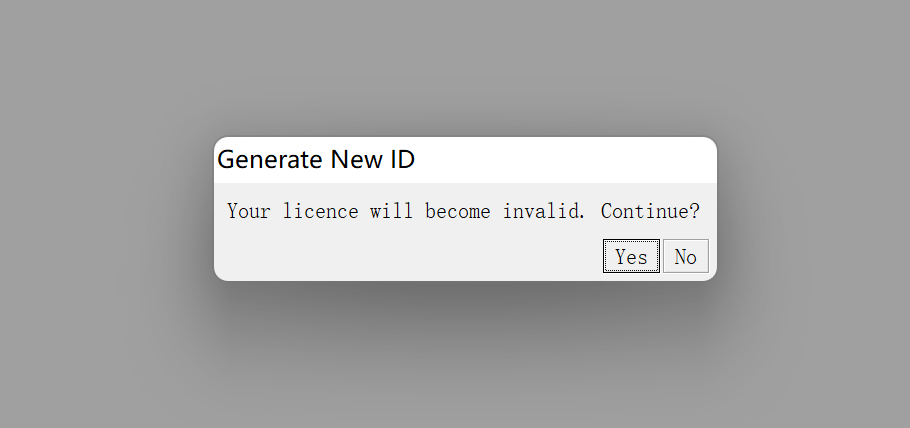
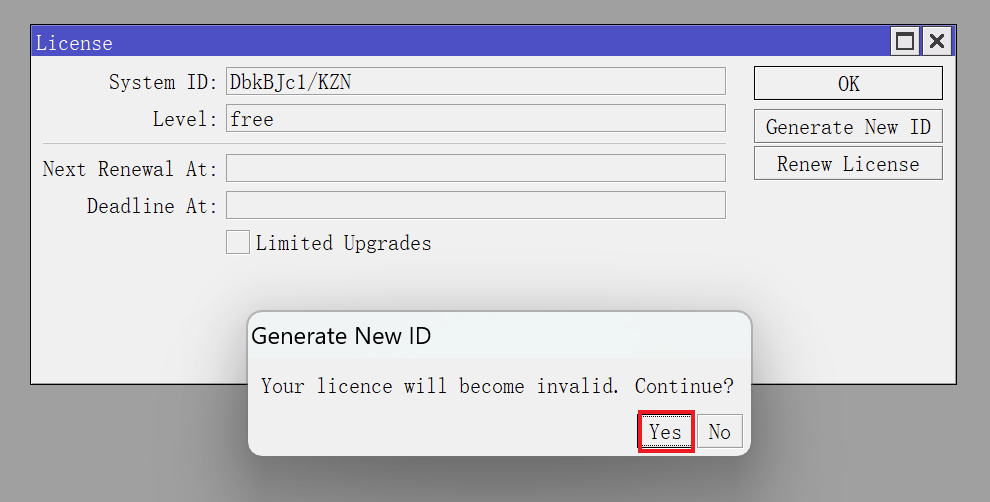
更新ROS截图

diff --git a/03.RouterOS正版系统激活.md b/03.RouterOS正版系统激活.md
@@ -2,7 +2,7 @@
 
 在上一篇文章《[02.配置防火墙和流量整形](./02.配置防火墙和流量整形.md)》中，我们设置好了接口组、防火墙和流量整形。  
 
-而有的小伙伴反馈在测速的过程中只能有 `1Mbps` 的带宽，那是因为 RouterOS 在 “试用” 状态下有默认的端口限速。  
+而有的小伙伴反馈在测速的过程中只能有 `1Mbps` 的带宽，那是因为 RouterOS 在 “试用” 状态下有默认的网口限速。  
 
 本文将告诉大家如何激活正版 RouterOS 系统。
 
@@ -10,13 +10,13 @@
 
 ### 1.1.购买 License
 
-因为使用的是原装系统，不像其他直接导入虚拟机后开机就是激活状态的镜像 RouterOS。  
+因为使用的是原装系统，不像其它 “克隆版” RouterOS 虚拟机镜像，导入后开机就是激活状态。  
 
 我们需要使用 Mikrotik 官方 `License` 来激活我们的系统。  
 
 首先我们需要用邮箱注册 Mikrotik 账号，注册地址为 `https://mikrotik.com/client` 。
 
-然后使用某宝或其他渠道购买一个 `License` ，CHR 的 `License` 分为 P1、P10、PU 三个版本，其区别在于“速度限制”。  
+然后使用某宝或其他渠道购买一个 `License` ，CHR 的 `License` 分为 P1、P10、PU 三个版本，其区别在于 “网口限速” 。  
 
 对于有 2.5G 网口的设备，推荐购买 P10 授权。
 
@@ -26,31 +26,31 @@
 
 授权购买后，回到 Mikrotik 官网并登录账号，进入到账户中心。  
 
-在 `Transfer prepaid keys` 页面会看到有一个新的 `License` ，只有这里显示出新购买的 `License` 才表示这个 `License` 真正属于你了。
+在 `Transfer prepaid keys` 页面会看到有一个新的 `License` 。  
+
+**注意：只有这里显示出新购买的 `License` 才表示这个 `License` 真正属于你了。**  
 
 ![新的License](img/p03/buy_new_license.png)
 
 ### 1.2.更新 System ID
 
-打开 Winbox 并登录 RouterOS，点击左侧导航 `System` 菜单的子菜单 `License` 。  
+使用 Winbox 登录 RouterOS ，点击左侧导航 `System` 菜单的子菜单 `License` 。  
 
-如果希望更换 `System ID`，或从 P1 升级到 P10 及更高的授权，可以点击 `Generate New ID` 来更新。  
-
-系统会提示说明“旧授权将不再可用，是否确认”，点击 `yes` 即可：
+如果希望更换 `System ID`，或从 P1 升级到 P10 或更高级授权，可以点击 `Generate New ID` 来更新。  
 
 ![获取新SystemID](img/p03/new_system_id.png)
 
+系统会提示说明“旧授权将不再可用，是否确认”，点击 `yes` 即可：  
+
 ![确认更新SystemID](img/p03/confirm_new_system_id.png)
 
-**注意：**   
-
-**需要谨慎使用 `System ID` 更新功能，超过一定次数后该功能将不再可用，只能重装系统。**  
+**注意：谨慎使用 `System ID` 更新功能，超过一定次数后该功能将不可用，只能重装系统。**  
 
 ![系统g了](img/p03/system_g.png)
 
-有了 `System ID` 后，接下来需要刷新 `License` 授权信息。  
+更新 `System ID` 后，接下来需要更新 `License` 授权信息。  
 
-点击 `Renew License` ，输入 Mikrotik 的账户和密码，并选择对应的授权级别（演示中选择了 P10 ），点击 `Start` ： 
+点击 `Renew License` ，输入 Mikrotik 的账户和密码，并选择对应的授权级别（演示为 P10 授权），点击 `Start` ： 
 
 ![刷新授权信息](img/p03/renew_license.png)
 
@@ -84,13 +84,13 @@
 
 由于虚拟机可能被重装，CHR 版本 RouterOS 的授权 `License` 是可以在不同虚拟机之间转移的。  
 
-当重装了 RouterOS，或者通过前面步骤更新了 `System ID` 后，我们希望新系统使用原有授权时，则可在 Mikrotik 的账户中心中对授权进行转移。  
+当重装了 RouterOS，或者通过前面步骤更新了 `System ID` 后，可在 Mikrotik 的账户中心中对授权进行转移。  
 
 在 Mikrotik 账户中心的 `All CHR Keys` 页面，记住新系统的 `System ID` ，然后点击需要转移的授权的 `Transfer` ：
 
 ![记住新系统SystemID](img/p03/find_new_system_id.png)
 
-通过右侧下拉列表找到新系统的 `System ID` ，然后点击 `Transfer subscription` ，即可转移授权：
+通过右侧下拉列表找到新系统的 `System ID` ，然后点击 `Transfer subscription` ，即可授权转移：  
 
 ![找到新系统SystemID](img/p03/choose_new_system_id.png)
 

diff --git a/01.定义网络接口和基础配置.md b/01.定义网络接口和基础配置.md
@@ -98,7 +98,7 @@ add bridge=bridge1 interface=ether4
 add bridge=bridge1 interface=ether5
 ```
 
-## 3.创建PPPoE拨号
+## 3.创建 PPPoE 拨号
 
 演示环境为使用 RouterOS 拨号上网，如果使用光猫拨号，可以跳过本段。  
 
@@ -131,7 +131,7 @@ add bridge=bridge1 interface=ether5
 
 ![禁用PPPoE拨号](img/p01/disable_pppoe-out1.png)
 
-## 4.设置接口IPv4地址
+## 4.设置接口 IPv4 地址
 
 本部分主要设置网桥 `bridge1` 和 `ether1` 的 IPv4 地址。  
 
@@ -152,7 +152,7 @@ add bridge=bridge1 interface=ether5
 |Interface|`bridge1`|
 |Comment|`defconf: Local LAN IPv4 Address`|
 
-### 4.1.RouterOS拨号时
+### 4.1.RouterOS 拨号时
 
 对于 **RouterOS 拨号** 场景，并且希望能通过 RouterOS 问到光猫时，需要给 `ether1` 分配一个和光猫同网段的地址 `192.168.100.2/24` ：
 
@@ -195,11 +195,11 @@ add bridge=bridge1 interface=ether5
 
 ![光猫拨号时网口1动态IP完成](img/p01/ether1_dhcp_ipv4_finish.png)
 
-## 5.设置DHCPv4服务器
+## 5.设置 DHCPv4 服务器
 
 设置 IPv4 DHCP 服务器包括两个部分，创建 DHCPv4 的地址池和创建 DHCPv4 服务器。  
 
-### 5.1.创建DHCPv4地址池
+### 5.1.创建 DHCPv4 地址池
 
 先创建 DHCPv4 地址池，点击左侧导航 `IP` 菜单的子菜单 `Pool` ，点击 ` + ` 按钮：  
 
@@ -223,7 +223,7 @@ add bridge=bridge1 interface=ether5
 
 ![DHCP地址池添加完成](img/p01/dhcp_pool_finish.png)
 
-### 5.2.创建DHCPv4服务器
+### 5.2.创建 DHCPv4 服务器
 
 接下来创建 DHCPv4 服务器， 点击左侧导航 `IP` 菜单的子菜单 `DHCP Server` ，点击 ` + ` 按钮：
 

diff --git a/02.配置防火墙和流量整形.md b/02.配置防火墙和流量整形.md
@@ -1,6 +1,6 @@
 ## 0.前景提要
 
-在上一篇文章《[01.定义网络接口和基础配置](./01.定义网络接口和基础配置.md)》中，我们已经配置好了 RouterOS 的网络接口、DHCP、DNS等内容；  
+在上一篇文章《[01.定义网络接口和基础配置](./01.定义网络接口和基础配置.md)》中，我们已经配置好了 RouterOS 的网络接口、DHCPv4、DNS 等内容。  
 
 此时，连接上 RouterOS 的设备可以正常获取到 IPv4 地址，但还不能正常访问外网。  
 
@@ -50,7 +50,7 @@ yes
 
 在之前的文章中已经设置好的接口有 `pppoe-out1` 、`bridge1` 和 `ether1` ，分别代表连接互联网的接口 `WAN`、内网接口 `LAN` 以及访问光猫接口 `ONU` 。  
 
-### 2.1.RouterOS拨号时
+### 2.1.RouterOS 拨号时
 
 对于 **RouterOS 拨号** 场景，将以下命令一次性全部粘贴到终端工具中执行即可：
 
